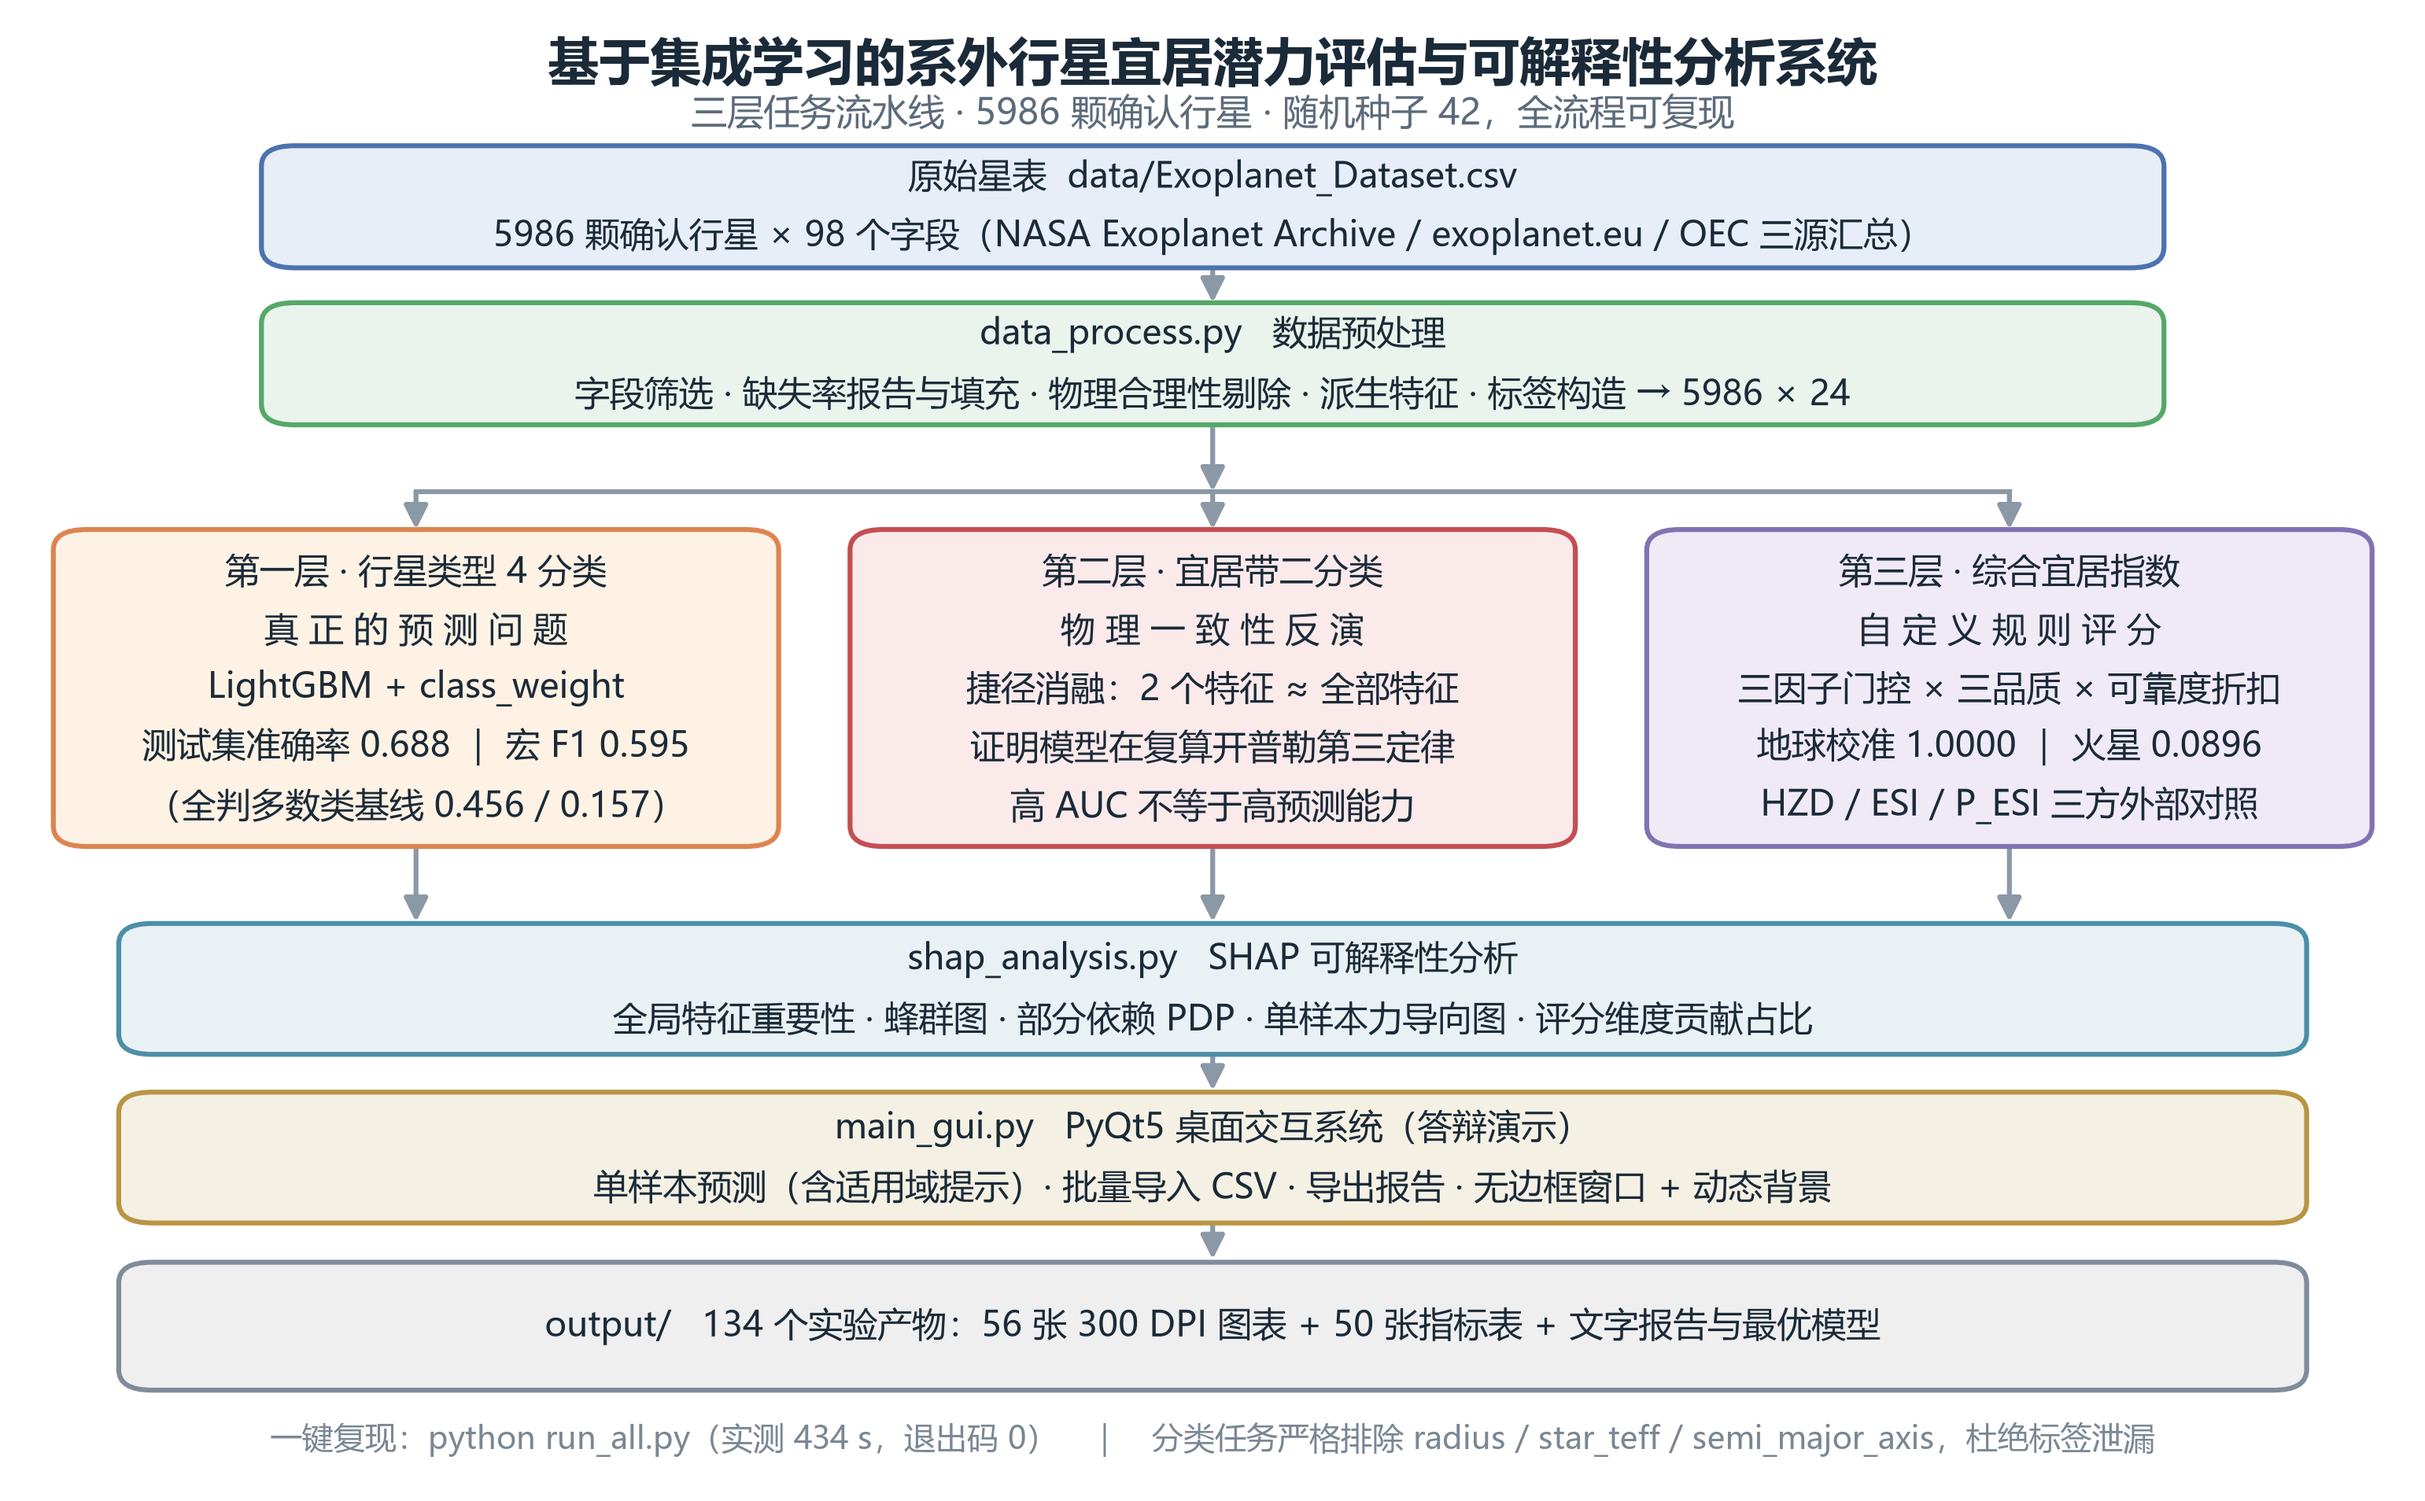
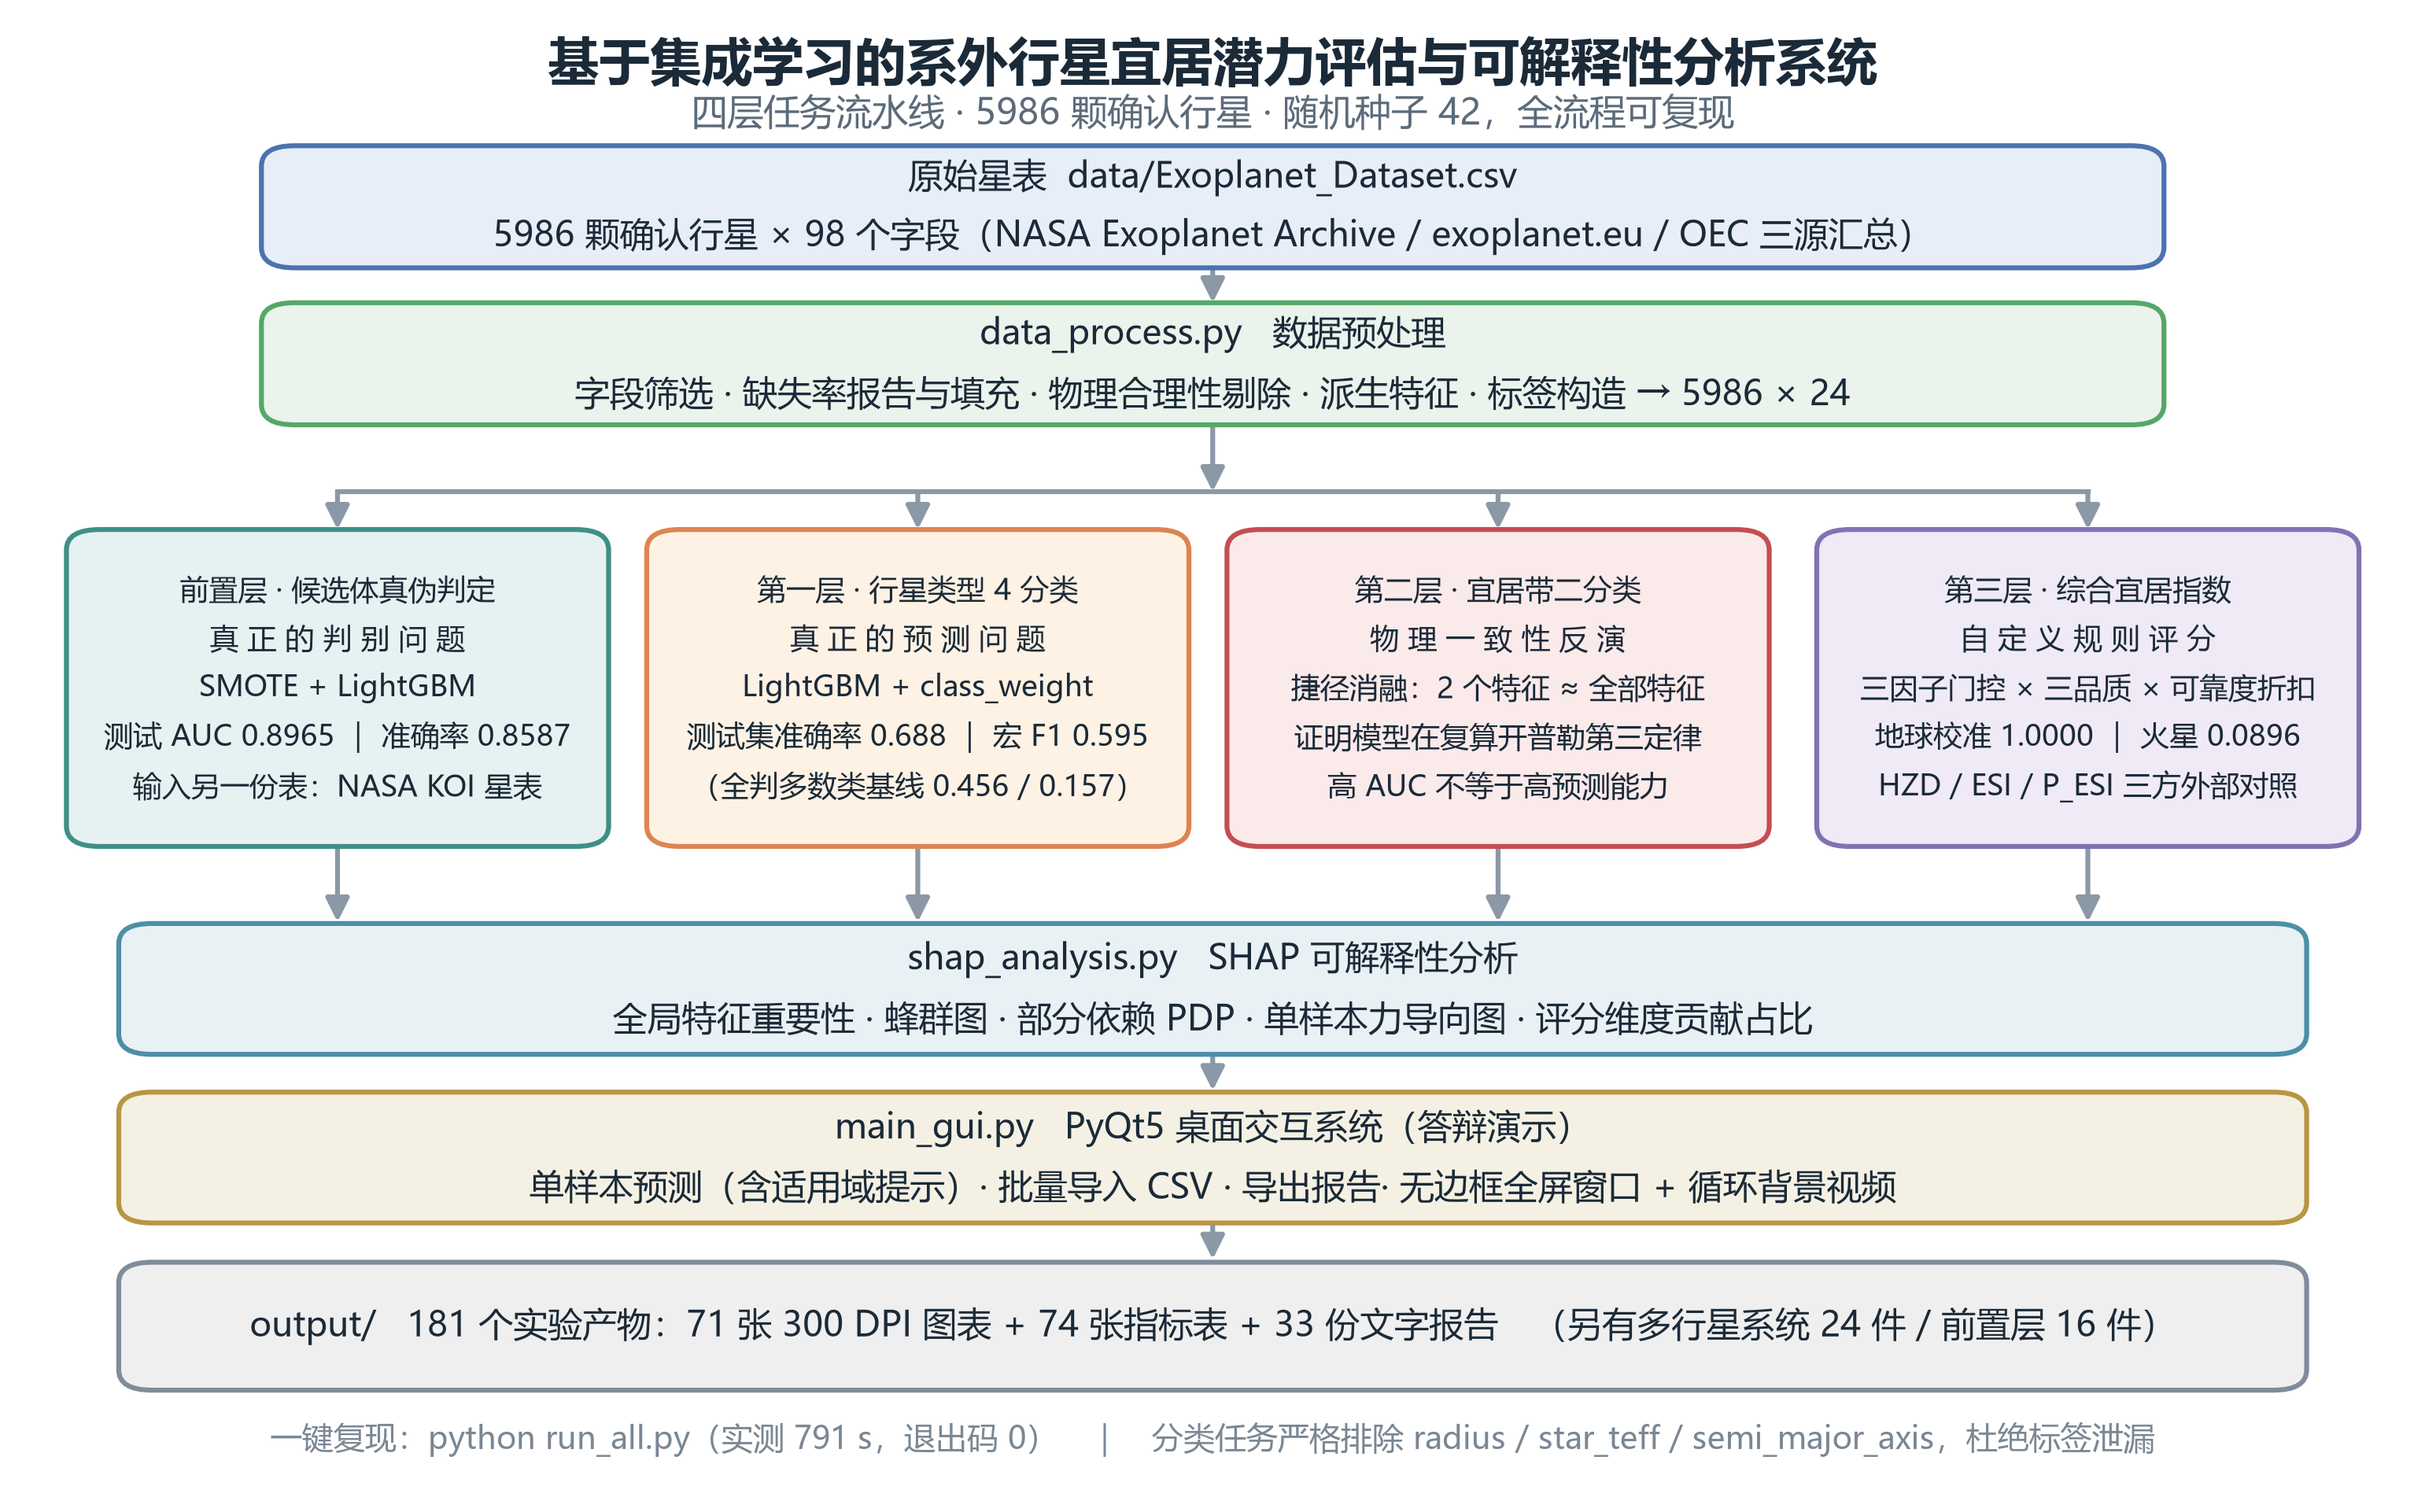
同步最新版展示页：四层流水线 + 前置层 + 全屏 GUI 截图
- README.md：三层改四层任务流水线，新增前置层（KOI 凌星候选体真伪判定）小节，
  徽章改 181 个实验产物 / 71 张 300 DPI 图表，代码规模改 18 模块 + 4 工具脚本，
  复现时长改 791 s，GUI 截图引用改全屏版
- figures/01_architecture.png：架构图重画为四列（新增前置层），产物框与页脚口径同步
- figures/10_koi_vetting_feature_ladder.png：新增前置层特征档位阶梯图
- figures/08_gui_fullscreen.png：替代原 08_gui_windowed.png（2000×1250 全屏同比例）
- figures/07_shap_summary_beeswarm.png：随本轮实验重新生成

diff --git a/README.md b/README.md
@@ -4,7 +4,7 @@
 
 **Exoplanet Habitability Assessment &amp; Interpretability System**
 
-本科毕业设计项目　·　三层任务流水线 + SHAP 可解释性 + PyQt5 桌面交互系统
+本科毕业设计项目　·　四层任务流水线（含前置候选体筛选）+ SHAP 可解释性 + PyQt5 桌面交互系统
 
 ![Python](https://img.shields.io/badge/Python-3.9%2B-3776AB?logo=python&logoColor=white)
 ![scikit-learn](https://img.shields.io/badge/scikit--learn-1.9.1-F7931E?logo=scikitlearn&logoColor=white)
@@ -14,7 +14,7 @@
 ![code](https://img.shields.io/badge/code-MIT-blue)
 ![data](https://img.shields.io/badge/data-CC--BY--4.0-lightgrey)
 
-`5986 颗确认行星`　`98 个原始字段`　`134 个实验产物`　`56 张 300 DPI 图表`　`随机种子 42`
+`5986 颗确认行星`　`98 个原始字段`　`181 个实验产物`　`71 张 300 DPI 图表`　`随机种子 42`
 
 </div>
 
@@ -39,6 +39,7 @@
 
 - [系统架构](#系统架构)
 - [数据](#数据)
+- [前置层 · 凌星候选体真伪判定](#前置层--凌星候选体真伪判定)
 - [第一层 · 行星类型 4 分类](#第一层--行星类型-4-分类)
 - [第二层 · 宜居带判定（一个负面结果）](#第二层--宜居带判定一个负面结果)
 - [第三层 · 综合宜居指数](#第三层--综合宜居指数)
@@ -55,13 +56,18 @@
 
 ![系统架构](figures/01_architecture.png)
 
-三层任务的**性质完全不同**，项目对它们的处理方式也不同：
+四层任务的**性质完全不同**，项目对它们的处理方式也不同：
 
 | 层 | 任务 | 任务性质 | 模型特征数 | 代表指标 |
 | --- | --- | --- | :---: | --- |
+| 前置层 | 凌星候选体真伪判定 | **真正的判别问题**（标签来自观测与人工判定，无公式可替代） | 11 | AUC 0.8965 ｜ 准确率 0.8587 |
 | 第一层 | 行星类型 4 分类 | **真正的预测问题**（标注只依赖半径，其余物理量与之仅有统计关联） | 7 | 准确率 0.688 ｜ 宏 F1 0.595 |
 | 第二层 | 宜居带二分类 | **物理一致性反演**（标签可由公式精确算出） | 6 | AUC 0.973，但 2 特征即可复现 |
 | 第三层 | 综合宜居指数 | **自定义规则评分**（无客观真值，靠外部验证） | 7 个物理字段 | 地球校准 1.0000 ｜ 火星 0.0896 |
+
+主流程三层 + SHAP 由 `python run_all.py` 顺序跑完；前置层（步骤 8d）与多行星系统
+结构分析（8c）也挂在同一条流水线上，产物分别落在 `output/koi_vetting/` 与
+`output/multisystem/`。
 
 ---
 
@@ -126,6 +132,29 @@ OBSERVATIONAL_FIELDS = ["detection_type", "detection_type_encoded", "discovered"
 > 却比轨道周期更能预测行星类型。这显然不是物理，而是探测选择偏差。
 > 顺着这条线索又查出 `inclination` 的同类问题，一并清除。
 > 整个过程记录在项目的特征泄漏审计报告里。
+
+---
+
+## 前置层 · 凌星候选体真伪判定
+
+![前置层特征档位阶梯](figures/10_koi_vetting_feature_ladder.png)
+
+前三层处理的是「已确认的行星」，但真实工作流里最先撞上的问题是：
+**这颗信号到底是不是行星？** 这一层用 NASA 归档 Q1–Q8 的 KOI 表补上这个缺口。
+
+| 项目 | 数值 |
+| --- | --- |
+| 样本 | 已定论 **3018** 条（真实行星 2317 ／ 假阳性 701，假阳性占 23.2%）；`CANDIDATE` 与 `NOT DISPOSITIONED` 共 847 条未定论样本剔除 |
+| 主实验 | V3 档 11 特征 × 4 模型 × 2 种不平衡策略，最优 **SMOTE + LightGBM**：测试 AUC **0.8965**、准确率 **0.8587**、假阳性类 F1 **0.7037** |
+| 特征档位阶梯（5×3 折） | V1 0.8946 → V2 0.9126 → **V3 0.9202** → V4 0.9193（加上自制半径比后不再提升，是特征冗余的直接证据） |
+| 外部对照 | 官方自动审议器一致率 **0.9893**（覆盖 67.9%）；DR25 `fpp_prob` 与本文折外概率 Spearman ρ = **0.3694**，阈值一致率 0.8656 |
+
+**防标签泄漏**：官方自动审议器的结论 `koi_pdisposition` 与标签同构，因此**只作对照
+基线、不进特征**——黑名单写在模块内并带运行时断言，避免日后改动时误加。
+
+这一层划清了整个项目的界线：第二层的标签可以由公式精确算出，于是任务退化成
+物理一致性反演；而这一层的标签来自观测与人工判定，没有公式可替代——**这才是必须
+交给模型的地方**。
 
 ---
 
@@ -324,14 +353,15 @@ OBSERVATIONAL_FIELDS = ["detection_type", "detection_type_encoded", "discovered"
 
 ## PyQt5 桌面交互系统
 
-![桌面系统](figures/08_gui_windowed.png)
+![桌面系统](figures/08_gui_fullscreen.png)
 
 - **单样本预测**：输入质量、半径、轨道周期、偏心率、恒星质量与温度，
   输出行星类型 + 置信度、宜居带判定、综合宜居指数（与地球对比）、关键影响因素 Top5；
 - **批量导入**：读入 CSV 批量预测，自动识别地球 / 木星单位；
 - **导出报告**：结果一键存为 CSV；
 - **适用域提示**：当输入落在训练分布之外时给出明确警告，而不是硬给一个数；
-- **演示级界面**：无边框窗口（放大即整屏铺满）、动态背景视频、开屏动画。
+- **演示级界面**：无边框全屏窗口、循环星云背景视频、开屏动画与背景音乐
+  （顶部标题横幅与底部状态条全透明，只留文字压在背景上）。
 
 ---
 
@@ -339,7 +369,7 @@ OBSERVATIONAL_FIELDS = ["detection_type", "detection_type_encoded", "discovered"
 
 | 实践 | 说明 |
 | --- | --- |
-| **一键复现** | `python run_all.py` 依次跑完预处理 → 三层实验 → SHAP，实测 **434 s**、退出码 0，134 个产物全部自动落盘 |
+| **一键复现** | `python run_all.py` 依次跑完预处理 → 三层实验 → SHAP → 多行星系统 / 前置层，实测 **791 s**、退出码 0，181 个产物全部自动落盘 |
 | **图表规格** | 全部 300 DPI，中文显示自动配置回退字体链，可直接进论文 |
 | **可复现性** | 全局随机种子 42，所有划分 / 采样 / 训练可复现 |
 | **折内重采样** | SMOTE 只在训练折内做，避免合成样本渗漏到验证 |
@@ -355,7 +385,7 @@ OBSERVATIONAL_FIELDS = ["detection_type", "detection_type_encoded", "discovered"
 # 1. 环境
 pip install -r requirements.txt
 
-# 2. 一键跑完全部实验（约 7 分钟）
+# 2. 一键跑完全部实验（约 13 分钟）
 python run_all.py
 
 # 3. 启动桌面系统
@@ -386,7 +416,7 @@ python main_gui.py
 ## 引用与开源说明
 
 **代码**：本仓库为项目的**展示页**，仅包含说明文档与结果图。
-完整源代码（15 个模块、约 14,500 行 Python）将在**毕业论文答辩结束后**开源，
+完整源代码（18 个模块 + 4 个工具脚本、约 2.0 万行 Python）将在**毕业论文答辩结束后**开源，
 届时会在此处更新链接。在此之前如需交流，欢迎通过 Issue 联系。
 
 **数据来源与许可**（与代码许可分开，请分别遵守）：
